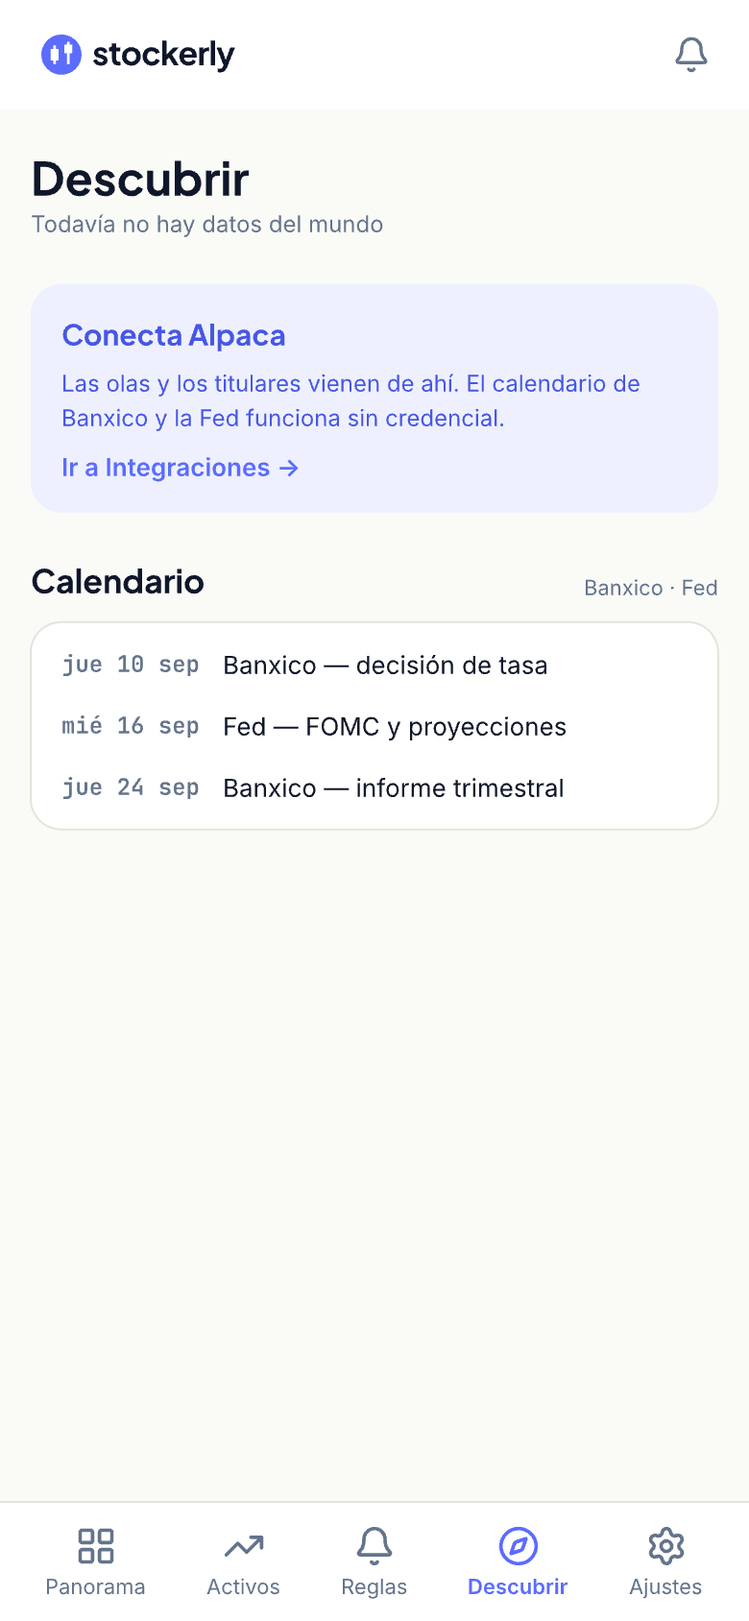
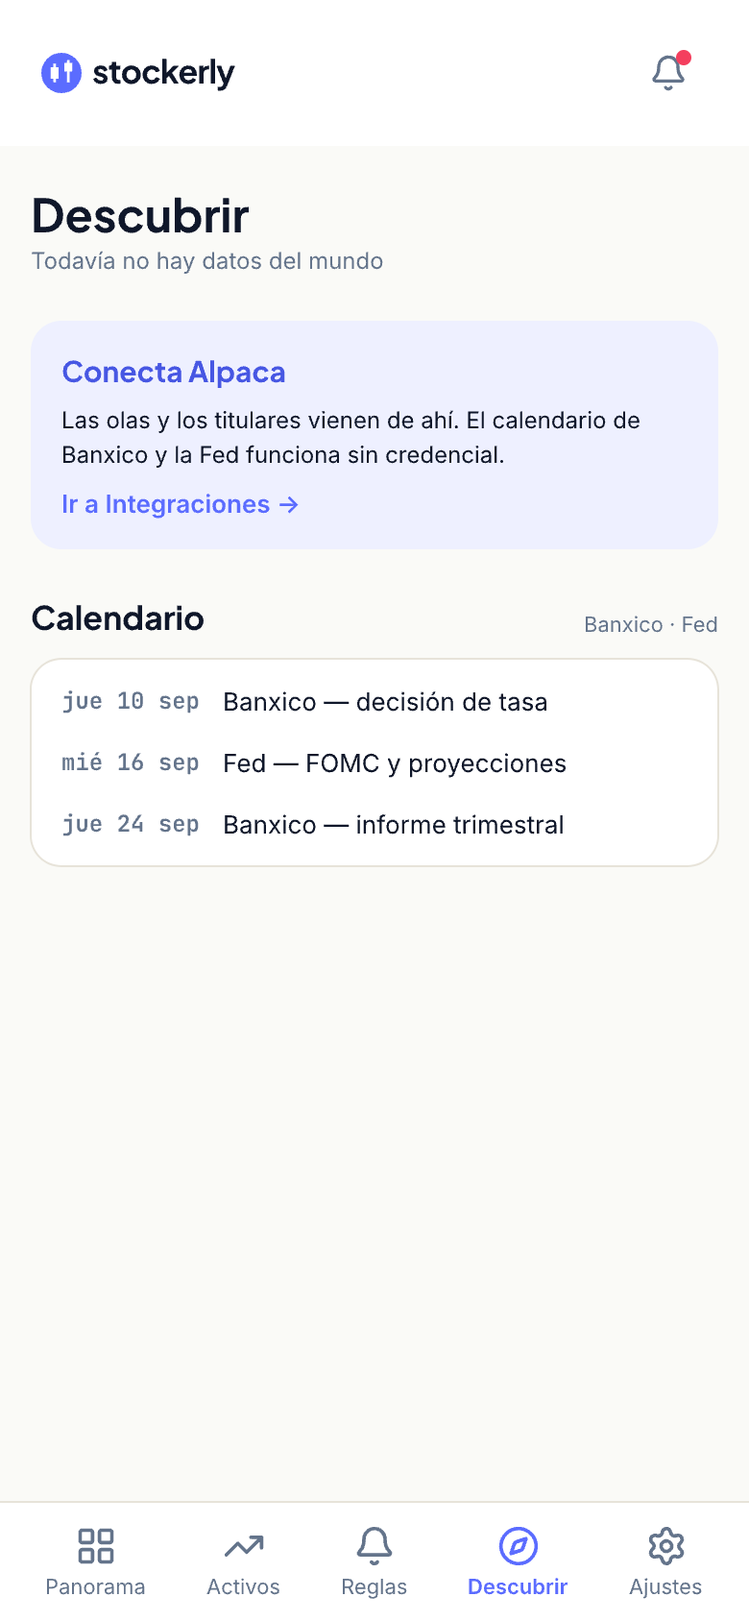
Migrate Descubrir to kit 0.8.0, and close two decisions the registry left open
The only flow whose shell was already fully vendored, so 0.8.0 was a
component update rather than a consolidation: TopBar 57 -> 76,
TopBarDesktop 76 -> 80, both from the kit's 44pt bell target.

TopBarDesktop's master read 'Activos / CARTERA · MXN' -- residue from this
file being seeded off assets.pen. Its single instance overrode it, so
nothing rendered wrong, but the default was meaningless here. Master and
instance agree now.

D47/D46 confirmed by query: Reportan pronto is gone from all three
artboards; the only hits left are the brief explaining the removal.

D33 closed. discover.pen's own N9 has read CLOSED since the block was
built while the registry row stayed open -- PolicyCalendar.horizon, the
calendario_agotado copy and the tentative rows all exist.

D41 applied, and applying it produced D56. Its decided change -- the Aviso
paragraph to fg-default -- had never been executed. Two of its supporting
claims do not survive measurement: the heading is 15px/700, not the 18px
bold it calls large text, and 'no other screen uses primary on
primary-muted' is false. Both are token-level and get their own pass.

Brief rewritten. Fifth of five found contradicting its own file: it claimed
kit-version-source 0.6.0 against a variable reading 0.7.0.

diff --git a/design/DECISIONS.md b/design/DECISIONS.md
@@ -4,7 +4,7 @@
 > `ui-kit.lib.pen` cite these by number. Keep entries after resolution — record the outcome
 > instead of deleting; the reasoning is the useful part.
 
-**Status:** 55 entries · 50 resolved · 5 open · 3 🔴 high-impact · 12 🐞 app bugs (10 fixed, 2 open)
+**Status:** 56 entries · 51 resolved · 5 open · 3 🔴 high-impact · 12 🐞 app bugs (10 fixed, 2 open)
 
 
 
@@ -61,7 +61,7 @@ values, so entries also record forward design calls — each with what we picked
 | **D30** | Where the onboarding ends, now that `/welcome` turns out to be orphaned | **Wizard ends at Welcome** · Delete `/welcome` and end at the Panorama · Fold Welcome's cards into the empty Panorama | ✅ **Resolved 2026-08-25 — the wizard ends at Welcome.** Adrian took the recommendation the same day it was raised. Found while scoping slice 7: The wizard runs setup → integrations → assets → complete → `launch`, and `launch` lands on `admin_root_path`. `/welcome` is never visited, because `authenticated_controller.rb:22-25` sends only *non-admins* there and **no non-admin can exist** (`CreateFirstAdmin` hard-codes `role: :admin`, refuses once a user exists, and the pivot deleted registration). Its spec passes because the factory defaults to `role { :user }` — a role production cannot produce — and requests the path directly. **The screen itself is not the problem: it already matches `onboarding-welcome.png` copy for copy**, because S07 built it and the artboard was drawn from it. So this is a routing decision, not a build. **The wizard ends at Welcome**, which is what the design draws and what gives a first boot its "here is what to do next" moment — the exact failure the beta reported. That collapses the `admin?` branch, retires `Identity::UseCases::CompleteOnboarding` in favour of `CompleteSetup` (which also launches the initial sync), and points *"Ir al panel"* at the Panorama. The alternative — deleting `/welcome` — throws away a screen that already matches its artboard and returns the first boot to a cold dashboard. |
 | **D31** | Whether the app gets a discovery surface, and how it is built so it can be thrown away | Recycle the orphaned `/market` + `/news` + `/earnings` · **A new disposable `/discover` tab** · No discovery surface | ✅ **Resolved 2026-08-25 — a fifth destination at `/discover`, under a written disposability contract.** Trigger, in Adrian's words: *"quiero salir de mi burbuja de stocks que estoy siguiendo, para saber si hay algún otro mercado emergente o wave de tecnología que no me entere"*. **This is not a rescue of the three orphans.** `/market`'s listing, `/news` and `/earnings` all read the instance's own catalogue — the bubble the tab exists to escape — and the redesigned Panorama already deleted `news_feed`, `trending` and `notable_observations` on purpose ([CODE_CHANGES §3](CODE_CHANGES.md)), so ambient content has no home in the cockpit. The three are deleted as planned; this is a new surface that reads the world instead of the instance. **What it shows — four independent lazy Turbo Frames:** *Olas*, a fixed 17-ETF basket ranked by 1-month performance (`SPY` as the baseline; geography `EWW` `VGK` `EWJ` `INDA` `MCHI`; US sectors `XLK` `SMH` `XLE` `XLF` `XLV`; themes `ARKK` `URA` `COPX` `BOTZ`; thermometers `GLD` `TLT`) — a basket *is* the wave, which is exactly what a 200-row screener is not (C5 Renata); *Calendario*, the next Banxico and Fed announcements from a YAML in the repo (~8 of each per year, published a year ahead, no API, annual maintenance) — **the only block that needs no credential**, so a fresh self-hoster and an expired key both still see something (C8 Bram); *Reportes*, upcoming earnings from the basket, not from the portfolio; *Titulares*, five headlines and never a feed — at a weekly cadence a news river is always stale or repeated (C1 Lucía). No buy/sell suggestions: ADR-0001 holds here as everywhere. **The disposability contract is the actual decision:** (1) zero tables, zero migrations, zero rows — everything lives in `Rails.cache` (Solid Cache in production); (2) **one** job, `WarmDiscoverJob` every 4h in `config/recurring.yml` — the first draft said *zero* jobs and lazy-fetched on request, which Adrian corrected and was right: at a weekly cadence *every* visit is a cache miss, so lazy fetch means paying full network latency all 52 times a year. The load-bearing clause was always "zero tables", never "zero jobs"; (3) the job writes with a **24h TTL though it runs every 4h**, so a failed run serves "actualizado hace 6h" instead of an empty screen; (4) zero events — nothing published to or subscribed from `EventBus`; (5) **it never writes to `Asset`** — the single bridge into the app is an explicit "Agregar a Rastreados" button reusing the existing path, because a discovered symbol persisted as an `Asset` enters D9's sync ladder and the screen stops being disposable forever (C2 Hiroto); (6) everything under one folder, so deleting it is that folder plus one route, one nav entry, one job file, one `recurring.yml` entry and one spec folder. If any clause breaks during implementation, the screen stopped being disposable and that gets reported, not absorbed. **Kill criterion, with a date:** the screen writes `discover:last_seen` to the same cache on every visit (three lines, no table, deleted with the rest) and Ajustes › Estado surfaces it; **eight weeks after merge, if it was not opened in at least 4 of those 8 weeks, it is deleted.** "Disposable" without a written date is how the 22 phases started (C6 Esther). **Naming:** label **"Descubrir"**, route `/discover`. Not "Mercado" — `/market/:symbol` stays as the asset detail, and one word naming two things is the collision S4 Camila flagged. **The price, stated plainly:** a fifth destination changes `AppShell`, `AppShellDesktop` and `SidebarNav`, which is *not* an additive bump, so kit 0.6.0 forces a re-vendor across all six flows and a re-shoot of every export showing the bar — overhead that improves no existing screen. It also promotes **D19 / §9 Alpaca from optional to prerequisite**: three of the four blocks need it. Panel: C2 Hiroto, S2 Adriana, C5 Renata, C1 Lucía, C6 Esther, C4 Marisol, C8 Bram. Decided 2026-08-25. **Amended 2026-08-25, same day, after a panel review of the screen's usefulness.** The first draft answered *"what moved?"*, which is trivia. Four changes, all cheap, none breaking the contract: (a) **the ranking window is "since your last visit", capped at 90 days**, not a fixed 30 — a monthly ruler does not serve a weekly visitor, and `discover:last_seen` is already stored for the kill criterion, so the window and the metric pay for each other (C5 Renata; the cap is S2 Adriana's, or the job's cost becomes unpredictable after a long absence); (b) **each basket carries an exposure chip** — *"sin exposición"* or *"ya vía NVDA"* — because *"salir de mi burbuja"* requires knowing where the bubble's edge is, and clause 5 forbids **writing** to `Asset`, not reading open positions (C6 Esther). The chip is styled neutrally in both states on purpose: colouring *"sin exposición"* would read as *act here*, which is the advice ADR-0001 forbids; (c) **Titulares is filtered to the baskets' symbols**, one parameter on the Alpaca call — unfiltered it is a news river that is always stale at a weekly cadence, filtered it stops being news and becomes *why SMH moved* (C1 Lucía); (d) **the basket lives in a YAML beside the calendar's**, not a Ruby constant, so a self-hoster changing their own basket does not edit code and lose it on the next pull (C8 Bram). This restates rather than contradicts "reads the world, not the instance": the world is still the subject; the instance only marks what of it the user already owns. |
 | **D32** | What the kit 0.6.0 re-vendor found in the flows it had to touch | Fix it now · **Log it, fix it when asked** | ✅ **Resolved 2026-08-25 — three findings; one fixed, two logged.** **(1) `cockpit.pen` does not vendor the shell; it redraws it.** Its `TopBar` and `BottomNav` are **local frames repeated per artboard** — six and four copies — while `assets`, `alerts` and `settings` instance a single vendored master by `ref`. The cost showed up immediately: one new destination took **five** edits in cockpit against one or two everywhere else, and it will keep charging that on every shell change. Per the kit contract this is a note, not a task — two flows rebuilding the same thing costs zero files today, consolidating costs all consumers — so it waits for a batch someone asks for. Filed so the next shell change knows what it is paying for. **(2) `alerts.pen` was on kit 0.3.0, and has been migrated to 0.6.0 — after measuring, not arguing.** The first call was to leave it at 0.3.0 on the theory that it might be missing tokens from 0.4.0/0.5.0, which would make a bump an overclaim. **Adrian asked for the migration and the measurement settled it:** all **37 tokens are byte-identical** to the kit in both themes, and `Segmented` and `Field` match node for node. 0.4.0 and 0.5.0 were additive on components only (`NavRow`/`SwitchRow`, the desktop shell) and alerts uses none of them — and the contract is *all tokens plus only the components it uses*, so it was never diverging and the bump states the truth. The lesson is the reusable part: *behind vs diverging* is a question with an answer, and reading both variable sets answers it in one call. **(3) The kit's `TopBar` is missing the bell badge the app actually ships.** `alerts.pen` draws `BellWrap > Bell + Badge`; the kit draws a bare `Bell`. The code sides with alerts — [`components/_top_bar.html.erb`](../app/views/components/_top_bar.html.erb) renders a dot when `navbar_unread_count.positive?` — so the flow is **ahead of the kit**, not diverging from it, which is why the version bump in (2) still holds. Two consequences, both logged rather than acted on: the badge is a **kit gap** to promote in the next batch (never promote unsolicited — it re-vendors every consumer), and alerts draws a **numbered** badge where the code ships a **plain dot**, so landing the design means the count has to become real. That one belongs in CODE_CHANGES, not here. **Re-vendored to 0.6.0:** `cockpit`, `assets`, `settings`, `discover`, `alerts`. **Untouched:** `auth` and `onboarding` draw no shell. Found while executing D31. |
-| **D33** | What the Calendario block does when its YAML runs out | Yearly reminder and accept the gap · Declare the horizon and say so when exhausted · Scrape the sources instead | ⏳ **Open — deliberately.** Raised by Adrian while reviewing D31: *is that block even feasible, or does it change over time?* **Feasibility: settled, and the answer is a YAML.** Measured 2026-08-25 — the Fed publishes 8 meetings a year very far ahead (the 2027 schedule was announced [2025-09-05](https://www.federalreserve.gov/newsevents/pressreleases/monetary20250905a.htm), ~16 months out) but labels them **tentative**; Banxico publishes 8 a year, Thursdays 13:00, as a **PDF grid that is not machine-readable** — text extraction returns garbage — and its [announcements page](https://www.banxico.org.mx/publicaciones-y-prensa/anuncios-de-las-decisiones-de-politica-monetaria/anuncios-politica-monetaria-t.html) carries only *past* decisions, linking the future schedule as a PDF. There is therefore no automatable path for half the data, and scraping the Fed for the other 8 rows does not pay when the rest is manual anyway. **What is open is the decay, and it decays three ways, only one of which the design handles.** (1) *It runs out* — a YAML holding 2026 renders an empty block in January 2027, **and says nothing about why**, on the one block that promises to work without a credential; the other three at least say "conecta Alpaca". (2) *Fed dates are tentative* and have moved, so a file loaded 16 months early can be quietly wrong. (3) *Unscheduled meetings* (March 2020) will never be in it — and those are the ones a "what is happening" screen would most want. **The candidate answer**, not adopted: the section meta declares its horizon (`Banxico · Fed · 2026`), an exhausted calendar renders *"El calendario de 2026 se terminó. Carga el de 2027"* with a link to the source instead of rendering nothing, and Fed rows are marked tentative so the block stops claiming a precision its source does not offer. **Left open on Adrian's call** — the block works untouched until December, and this is better decided while building it than guessed at now. Whoever builds CODE_CHANGES §10 owns this. Logged as N9 in the `discover.pen` brief. |
+| **D33** | What the Calendario block does when its YAML runs out | Yearly reminder and accept the gap · Declare the horizon and say so when exhausted · Scrape the sources instead | ⏳ **Open — deliberately.** Raised by Adrian while reviewing D31: *is that block even feasible, or does it change over time?* **Feasibility: settled, and the answer is a YAML.** Measured 2026-08-25 — the Fed publishes 8 meetings a year very far ahead (the 2027 schedule was announced [2025-09-05](https://www.federalreserve.gov/newsevents/pressreleases/monetary20250905a.htm), ~16 months out) but labels them **tentative**; Banxico publishes 8 a year, Thursdays 13:00, as a **PDF grid that is not machine-readable** — text extraction returns garbage — and its [announcements page](https://www.banxico.org.mx/publicaciones-y-prensa/anuncios-de-las-decisiones-de-politica-monetaria/anuncios-politica-monetaria-t.html) carries only *past* decisions, linking the future schedule as a PDF. There is therefore no automatable path for half the data, and scraping the Fed for the other 8 rows does not pay when the rest is manual anyway. **What is open is the decay, and it decays three ways, only one of which the design handles.** (1) *It runs out* — a YAML holding 2026 renders an empty block in January 2027, **and says nothing about why**, on the one block that promises to work without a credential; the other three at least say "conecta Alpaca". (2) *Fed dates are tentative* and have moved, so a file loaded 16 months early can be quietly wrong. (3) *Unscheduled meetings* (March 2020) will never be in it — and those are the ones a "what is happening" screen would most want. **The candidate answer**, not adopted: the section meta declares its horizon (`Banxico · Fed · 2026`), an exhausted calendar renders *"El calendario de 2026 se terminó. Carga el de 2027"* with a link to the source instead of rendering nothing, and Fed rows are marked tentative so the block stops claiming a precision its source does not offer. **Left open on Adrian's call** — the block works untouched until December, and this is better decided while building it than guessed at now. Whoever builds CODE_CHANGES §10 owns this. Logged as N9 in the `discover.pen` brief. **✅ Closed 2026-08-27 — the candidate answer shipped and the registry never recorded it.** `PolicyCalendar.horizon`, the `calendario_agotado` copy and the `tentative` rows all exist in code, and `discover.pen`'s own N9 has read CLOSED since the block was built while this row stayed open. The design caught up in the same pass. |
 | **D34** | Where the deleted admin console's capabilities land, and which ones do not | **Fold into the 2.0 screens, keep only what would otherwise be lost** · Draw an artboard for the console · Delete outright | ✅ **Resolved 2026-08-26 — folded, with two capabilities kept and four dropped on the record.** Both `/admin/dashboard` (55 slate) and `/admin/assets` (66 slate) were deleted rather than migrated: neither has an artboard, and drawing one would mean designing an index of things that already read better in their own screen. **The dashboard's seven cards were already housed elsewhere** — data sources and last sync on Integraciones (which additionally shows the usage bar the dashboard never had), recent activity on Registros, asset totals on Rastreados. The **"Usuarios" card is the argument for deletion**: it counted users on a single-account instance, so it read `1` forever — the admin costume [[D5]] ordered removed, which survived only because nobody opened the screen again. **`/admin/assets` was half-absorbed by [[D9]] already**; Rastreados took the list and the budget. Verified before moving the rest, rather than assumed: `assets#toggle_sync` already calls `Administration::UseCases::Assets::ToggleStatus`, so `toggle_status` was **the same action drawn on two screens**. What was genuinely missing from Rastreados was **adding and removing an asset — two actions, not a screen** — and they landed there with the same ticker typeahead. **Kept, because the artboard drawing less than the screen does is not a licence to lose capability:** the manual source triggers moved to Ajustes › Estado, since without them a failed source has no way back before its next scheduled run. `refresh_fx_rates` turned out to be a **second route onto the same job** — `:fx_rates` is a registered source whose `job_class` is `RefreshFxRatesJob` — so the two collapsed into one. **Dropped, deliberately:** `trigger_sync` per asset (triggering its source covers it, and the detail already auto-syncs missing fundamentals), `UpdateAsset` (it edited catalogue fields that arrive from the gateway), `ListAssets`' type/market/status filters (a self-hosted catalogue capped by a 25-call daily budget fits on one screen), and the sync-operations KPI strip (the same counts are in Registros under `modulo=sync`). The `admin` namespace loses its root: `/admin` is no longer a screen, and every instance surface is reached from Ajustes. Executed 2026-08-26, closing [#289](https://github.com/rodacato/stockerly/issues/289). |
 | **D35** | What happens to `/positions` and `/search`, the two screens D31 did not sentence | **Keep `/positions` with a dated review; delete `/search`, keep its engine** · Delete both · Redesign both now | ✅ **Resolved 2026-08-26 — one kept with a date, one deleted.** [#295](https://github.com/rodacato/stockerly/issues/295) framed four screens as equally adrift. Measuring them apart is what produced two different answers. **`/market`'s listing was not an orphan** — the Panorama's *"ver más"* on Movimientos and the asset detail's back arrow both linked to it, both from screens already closed against their artboards, plus `_welcome_body` and two controller fallbacks. D31's deletion still stands (it reads the instance's catalogue), but executing it meant **choosing a destination for six live links**, which is Activos: it is where the reader came from, and `NavigationHelper` already mapped the `market` controller under that tab. **`/positions` (33 slate) is kept.** It is reachable from a 2.0 screen — `market/_position_trades` links to `positions_path(tab: "trades")`, and its own comment records why: *"the global list lives at /positions since the Consolidado took /portfolio"*. It is the only home for global trades and dividends. **Its review date is [#294](https://github.com/rodacato/stockerly/issues/294)**, the asset-detail depth pass, because the screen that links to it is the screen that pass rewrites: if `/positions` still has no artboard when #294 closes, it is deleted then. A keep without a date is how the 22 phases started. **`/search` (31 slate) is deleted** — zero inbound links, no artboard, and the search the 2.0 draws lives in the TopBar, not on a results page. **`Identity::UseCases::GlobalSearch` is kept**: it is the engine that TopBar search will need, it works, and deleting it would mean rebuilding it. Adrian's call on both, 2026-08-26. |
 | **D36** | How much of the asset detail's Análisis artboard gets built, given that D3 is still open and the glossary is English | **Flatten the scroll, ship the semaphore partial, translate the glossary, chips only where defensible** · Tokens and i18n only · Build the whole artboard | ✅ **Resolved 2026-08-26 — four calls, taken together because each one bounded the next.** Adrian's framing: *"prefiero ir pagando deuda y si B está más alineado al diseño ir por esa ruta"* — so the choice was never migration-versus-redesign, it was how much redesign the data actually supports. **(1) The sub-tabs flatten into the artboard's scroll.** `_analysis.html.erb` carries `Resumen / Valoración / Dividendos / Estados financieros` as sub-tabs and its own comment deferred the flattening. The artboard solves the volume problem itself: it shows **six metrics and a *"Ver todos los fundamentales →"*** link. That link **opens an accordion in place**, not a new screen — 36 metrics are registered and a `/market/:symbol/fundamentals` route would be a screen with no artboard, which is precisely what #295 just finished deleting. **(2) The confluence semaphore ships partial.** Lights 1 (overbought/oversold) and 3 (trend change) are groundable from the observations that already exist; light 2 is net-new and renders as *próximamente* — which is what D3 itself proposed. **The artboard's `considera vender` chip is dropped**: ADR-0001 forbids buy/sell advice, and *"Estirado — no es momento de comprar"* stays because it describes a state rather than instructing a trade. That is the line, and it is worth stating once: the app may say what **is**, never what to **do**. **(3) The glossary moves to i18n, the chips do not follow it wholesale.** `MetricDefinitions` holds 36 metrics × `display_name` + `short_desc` + `context_guidance`, all English, deferred since S10. They move to `config/locales` keyed by metric; the domain keeps the key, not the text. The artboard's interpretive chips (*"caro vs su historia"*, *"muy rentable"*, *"volátil"*) are **not translation** — they are a judgement of a value against a threshold, and no threshold exists in the model. They are built **only where the threshold can be written down and defended** (Beta > 1 is volatile by definition; ROE against its own history). Where it would be arbitrary, the value renders bare. **A chip that invents a threshold is worse than no chip**, because it reads as analysis and is a guess. **(4) Scope is the Análisis tab.** Mi posición's two gaps — the `Rendimiento` block and `Cerrar posición` — split to [#301](https://github.com/rodacato/stockerly/issues/301): the first needs a per-window return series nothing calculates, the second is a write flow. **Two things measured and found already resolved, so not re-decided:** *"VS. TU PLAN"* is [`market/_asset_rules`](../app/views/market/_asset_rules.html.erb), whose comment records that the artboard's Meta was dropped for want of a `target_price`; and *"Contexto de mercado"* has every piece it needs (`MarketIndex#change_percent`, `#is_open`, `Queries::CurrentFearGreed`, `MarketHours`). |
@@ -85,6 +85,7 @@ values, so entries also record forward design calls — each with what we picked
 | **D53** | The design registries age badly, and the rot is one shape | Live with re-measuring each session · **Stop restating what the artifact carries** · Build a doc linter | ❓ **Open — deferred by Adrian 2026-08-27 until the kit 0.8.0 migration closes.** Diagnosed while migrating: every stale claim found this month is a **hand-counted fact about a `.pen`'s internals**, and that is the one class no script can check — the files are encrypted and only the MCP reads them. Measured examples: this file's own header count (hence *recount, do not increment*), its `kit` column (a copy of each file's own `kit-version-source`), `assets.pen`'s brief contradicting its own file in three points, and `COMPONENT_INVENTORY` calling `Segmented` *Net-new* while it had two render sites. **One example this entry originally carried was itself wrong**, which is worth keeping: it read `MIGRATION.md`'s *"6 local TopBar copies and 4 BottomNav"* as an undercount, having measured 7 and 5. The extra pair belonged to `Panorama / Black swan`, the artboard D51 deletes — so the ledger was counting the work that remained, and the *correction* was the error. The same measurement also read the 54/57 split as internal drift; it is two deliberate variants, a root bar (`Brand`/`Bell`) and a detail bar (`TL`/`Bm`). A number is not evidence of rot until you know which premise produced it. **What is NOT broken, checked before proposing:** cross-references are clean — 0 dangling `Dn` and **one** real broken link in 248 KB of `design/*.md` ([CODE_CHANGES.md](CODE_CHANGES.md) line 288 links a deleted `dashboard/_watchlist_table.html.erb` under the word *currently*). A linter is not the answer to a problem this small. **The three proposed fixes, in order of weight:** (1) a registry does not restate a fact the artifact carries — delete the derivable columns and check a one-call `execute` measurement snippet into `README.md` instead, so measuring is *cheaper* than trusting; (2) every claim about code carries `file:line` — handoff item I cost four tool calls to disprove because it had neither; (3) the only thing worth scripting is this file's header recount, the error that has already happened twice. **Also open: 248 KB across seven files.** `COMPONENT_INVENTORY.md` and `FIDELITY_AUDIT.md` (45 KB) answer the same question — how far the code is from the design — both by hand, both made of measurements. Whether one has finished its job is part of this decision. |
 | **D54** | D36 dropped `considera vender` citing a rule that had already been amended twice | Leave it dropped · **Reverse D36 on this point** · Re-decide the phrase on its merits | ✅ **Reversed 2026-08-27 — D36 was wrong, and the artboard keeps the chip.** [ADR-014](../docs/architecture/adr/0014-state-phrases-from-a-closed-catalogue.md) (2026-08-25) lists *"considera vender"* **verbatim in its ✅ Newly allowed section**, as a catalogue phrase keyed to a state derived from persisted observations. D36 (2026-08-26 — *one day later*) dropped it citing ADR-0001, which ADR-013 and ADR-014 had by then amended. Nothing about the phrase changed; the rule it was judged against had. **Found by executing it:** the chip was deleted from `[Cockpit] / Asset · Análisis / Default` and its desktop twin while migrating this flow, then restored to its exact prior geometry (122×21, `$warning-bg` pill, `$warning-fg` label) once the ADR chain was read. **The rest of D36 stands** — the sub-tab flattening, the partial semaphore and the i18n glossary were all decided on their own grounds. **This is D53's failure mode with a name:** a decision is only as current as the ADR it cites, and nothing in `design/` links a `Dn` to the amendment history of the ADR underneath it. The ADR chain (001 → 013 → 014) must be read forward before any decision resting on ADR-001 is executed. Note ADR-014's own tripwire: *"a third amendment widening the same boundary — two is a decision, three is a pattern"*. This is not a third amendment; it is the second being applied correctly for the first time. |
 | **D55** | ADR-018's reason for killing email OTP applies to the password reset this flow already ships | Accept it — reset is not a second factor · **Give the self-hoster a recovery path that needs no mail** · Document the dependency and move on | ❓ **Open — found 2026-08-27 while migrating `auth.pen`, out of ADR-018's scope.** ADR-018 puts email OTP out of scope because *"it dies on a self-hosted box whose mail is misconfigured — the same permanent lockout by another door, on a deployment where mail is the single most likely thing to be wrong"*. That reasoning is sound, and it does not stop at OTP: **`/forgot-password` → email → `/reset-password/:token` is the only password-recovery path the product has**, and it depends on exactly the mail the ADR calls the most likely thing to be broken. A self-hoster who forgets their password on a box with no working SMTP is locked out just as permanently as one who loses an authenticator — the failure ADR-018 spent its length preventing, reachable by a door it did not look at. **This is not a contradiction in ADR-018**, which was scoped to second factors; it is the same argument arriving somewhere the ADR was not pointed. Cheapest honest answers, unpriced: a rake/console task that resets the password from the box itself (the operator has shell access by definition — a self-hoster is not a user), or making the recovery codes ADR-018 already builds work for password reset too. **Nothing is broken today** — Adrian's own instance has working mail — so this is a packaging gap, which is precisely the class ADR-010 says to take seriously: build for the real user, but do not ship a stranger a door that only opens with infrastructure they may not have. |
+| **D56** | D41 fixed one card and its two supporting claims do not survive measurement | Leave D41 as written · **Log both errors, fix neither here** · Restyle the kit now | ❓ **Open — measured 2026-08-27 while applying D41 to `discover.pen`.** D41's decided change was executed (the `Aviso` paragraph moved to `$fg-default`); it had never been. Applying it turned up two claims in D41 that are false. **(1) The heading is not large text.** D41 justifies keeping the accent on it as *"the heading (18px bold) … large text … owes 3:1"*. The artboard draws it at **15px/700**. WCAG's large-text floor is 18.66px bold, so it owes 4.5:1 — and the card had already been moved onto the `info` pair, whose **dark values are token-identical to the `primary` pair D41 rejected** (`info-fg` dark `#7B89FF` on `info-bg` dark `#2A2E55`). Recomputed here: **4.24:1**, the same failure by a different token name. Light is fine at 4.96:1, so the card is AA in one theme and not the other. **(2) *"No other screen uses it that way today"* is false.** The `SidebarNav` active item is `$primary` on `$primary-muted` — 3.68:1 in light — in the kit, in the code ([`_sidebar_nav.html.erb:10`](../app/views/components/_sidebar_nav.html.erb#L10), `bg-primary-muted … text-primary`) and in every desktop artboard across four flows. D41's own trigger, *"worth a look if a second one wants to"*, had already fired when it was written. **Neither is fixed here on purpose:** both are token-level, and changing `info-fg`/`primary` dark or the nav's active treatment ripples through the kit, four flows and the ERB. That is a kit bump with a re-vendor behind it, not a line in a flow file. |
 
 ## Changes to make in code (once decisions land)
 

diff --git a/design/MIGRATION.md b/design/MIGRATION.md
@@ -30,7 +30,7 @@ Kit **0.8.0** is not additive in practice even though it renames nothing:
 | `flows/auth.pen` | **0.8.0** | ✅ done | — |
 | `flows/alerts.pen` | 0.7.0 | — | one artboard is dangerous to build from |
 | `flows/settings.pen` | 0.7.0 | — | a reversed decision still drawn, plus a `Seguridad` section (D52) |
-| `flows/discover.pen` | 0.7.0 | — | the artboard is behind the code here |
+| `flows/discover.pen` | **0.8.0** | ✅ done | — |
 | `flows/onboarding.pen` | 0.7.0 | — | TOTP lands in the wizard (D52): nine artboards move |
 | `_playground.pen` | **0.8.0** | ✅ installed + Panel · V1…V4 | — |
 | `brand.pen` | n/a | — | hygiene only |
@@ -120,14 +120,25 @@ delete lands and the insert has not is how exploration disappears.
 - **A `Seguridad` section** — no longer conditional: D52 put enrollment in Ajustes as well as the
   wizard.
 
-## `flows/discover.pen`
+## `flows/discover.pen` — done 2026-08-27
 
-- Confirm the *Reportes* block is gone from all three artboards (D47; commit `63f4051` suggests yes).
-- **D41's contrast fix** was resolved *in code* — `primary` on `primary-muted` measured 3.68:1 light
-  and 4.22:1 dark, both under 4.5:1. Whether the artboard was corrected is unrecorded.
-- **D33 — here the code is ahead of the design.** The candidate answer was never marked adopted, but
-  it shipped: `PolicyCalendar.horizon`, the `calendario_agotado` copy and `tentative` rows all exist.
-  The artboard should catch up, and D33 should be closed.
+The only flow whose shell was **already fully vendored** — no hand-built copies — so 0.8.0 was a
+component update rather than a consolidation.
+
+- ✅ 14 tokens · `kit-version-source` 0.6.0 (claimed by the brief) / 0.7.0 (actual) → **0.8.0**.
+- ✅ `TopBar` 57 → 76 and `TopBarDesktop` 76 → 80, both from the same cause: the kit's 44pt bell
+  target. The two mobile artboards absorbed 19px; `Sin datos` is fixed-height and its Content took it.
+- ✅ 🐞 `TopBarDesktop`'s master read *"Activos / CARTERA · MXN"* — residue from this file being
+  seeded off `assets.pen`. Its single instance overrode it, so nothing rendered wrong, but the
+  default was meaningless here. Master and instance agree now and the override is gone.
+- ✅ **D47/D46 confirmed by query:** `Reportan pronto` is gone from all three artboards; the only
+  remaining occurrences are the brief's own prose explaining the removal.
+- ✅ **D33 closed.** The brief's N9 has read CLOSED since the block was built, while the registry row
+  stayed open — `PolicyCalendar.horizon`, `calendario_agotado` and the `tentative` rows all exist.
+- ✅ **D41 applied**, and applying it produced **D56**: its decided change (the `Aviso` paragraph to
+  `$fg-default`) had never been executed, and two of its supporting claims do not survive
+  measurement. Neither of those is fixed here — both are token-level.
+- ✅ Brief rewritten. Fifth of five found contradicting its own file.
 
 ## `flows/onboarding.pen`
 

diff --git a/design/README.md b/design/README.md
@@ -71,7 +71,7 @@ screens; smaller ones may merge into a neighbor.
 | `flows/assets.pen` | Activos — the three-tier ladder (D9) + data intake | holdings, watchlist, holdings vacía, historial, registrar movimiento (sheet + con teclado), tracked, tracked·buscar | **done · in review** — **migrated to kit 0.8.0 and D48 on 2026-08-27**: the ladder renamed, the TopBar's 19px growth absorbed, all twelve exports re-shot |
 | `flows/alerts.pen` | Reglas y avisos (rules + the notification inbox, D13) | reglas (default/vacío), nueva regla (sheet), bandeja, confluencia | **done · in review** |
 | `flows/settings.pen` | Ajustes — one hub, no admin zone (D5) | hub, integraciones, registros, estado y mantenimiento | **done · in review** |
-| `flows/discover.pen` | Descubrir — the world, not the instance (D31) | olas (default, sin datos) + Olas desktop | **done · in review** |
+| `flows/discover.pen` | Descubrir — the world, not the instance (D31) | olas (default, sin datos) + Olas desktop | **done · in review** — **migrated to kit 0.8.0 on 2026-08-27**: the only flow whose shell was already fully vendored, so both bars were updated rather than consolidated; D33 closed, D41 applied, D56 raised |
 
 Working model per flow: **(1)** read the existing screens/copy from code (source of truth for
 structure + strings) · **(2)** compose them in the `.pen` with the new ui-kit · **(3)** review/feel ·

diff --git a/design/exports/README.md b/design/exports/README.md
@@ -91,6 +91,9 @@ decision, not a redraw.
 **Nothing missing.** `flows/auth.pen` and `flows/onboarding.pen` shipped before this convention
 existed; both were caught up on 2026-08-24. Every artboard in every flow now has a PNG here.
 
+**Descubrir re-shot 2026-08-27** — all three artboards, for the same reason Cockpit was: the
+vendored `TopBar` grew 57 → 76 and `TopBarDesktop` 76 → 80.
+
 **Auth gained three artboards 2026-08-27** — TOTP enrollment, the one-time recovery-code display
 and recovery-code entry at login (ADR-018). `auth-2fa.png` was re-shot: its `Enviar código por
 correo` link is now `Usar un código de recuperación`, email OTP being explicitly out of scope. Per
